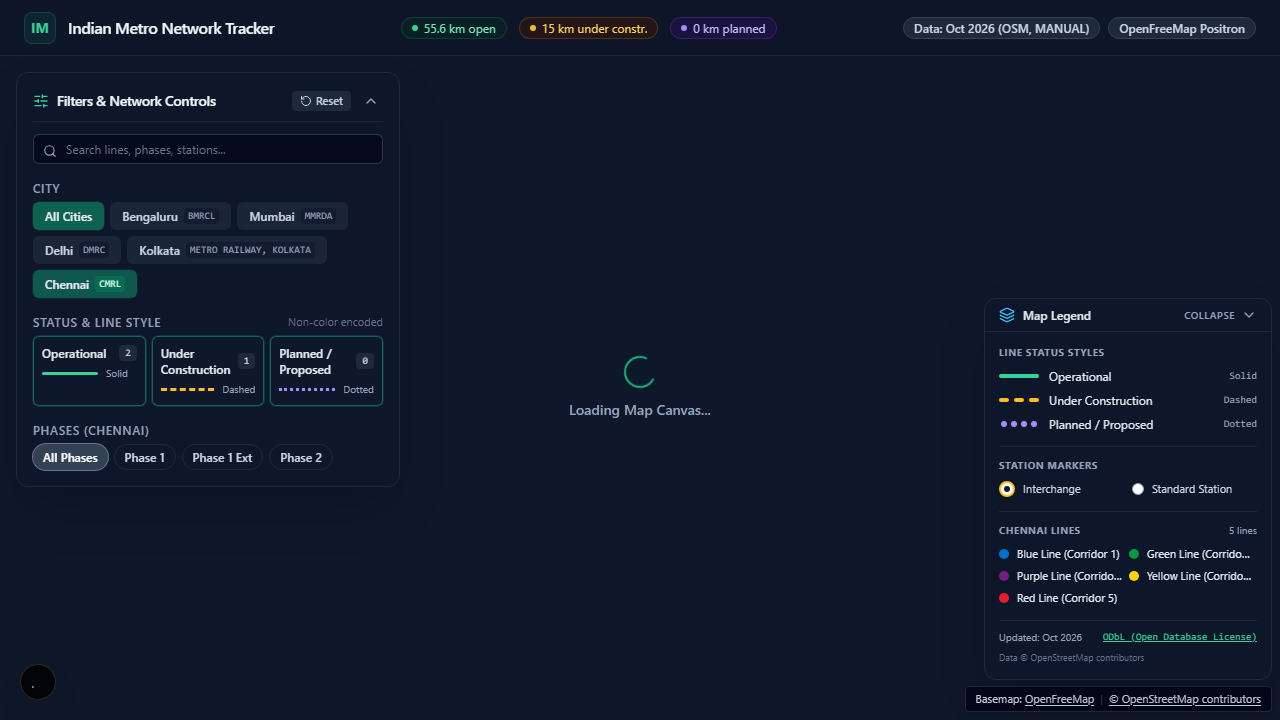
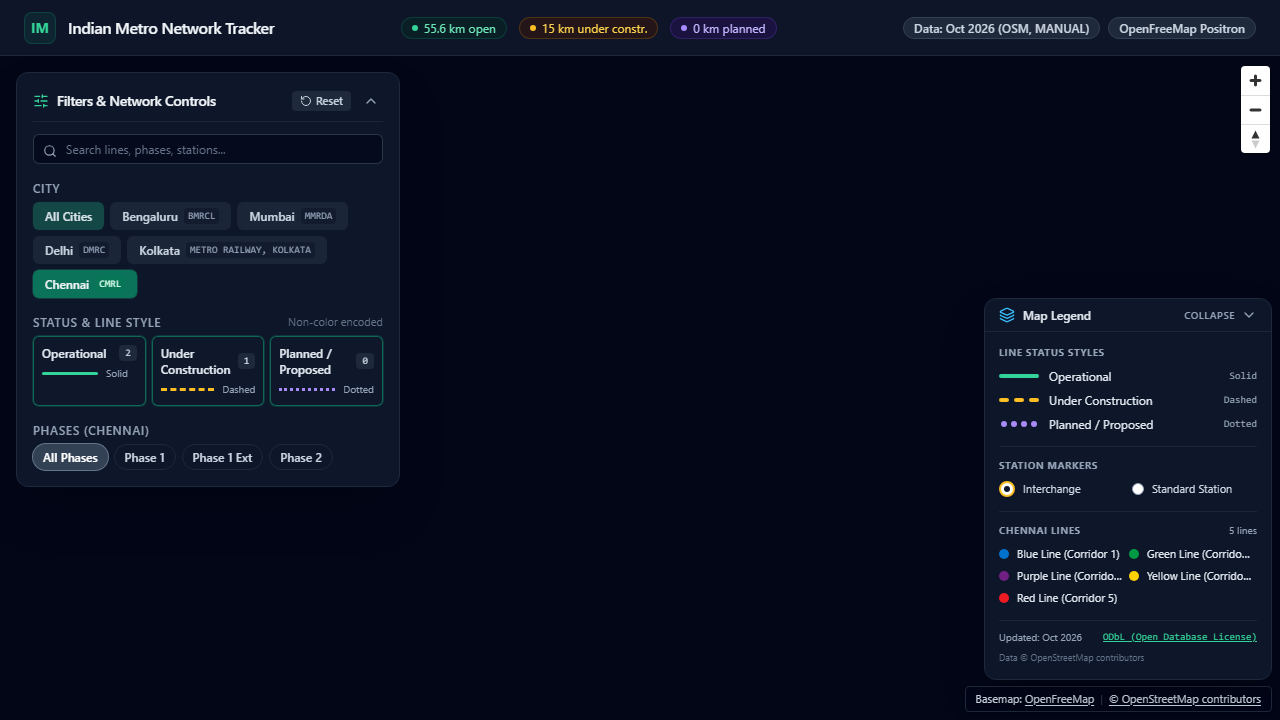
refactor(cleanup): remove unused exports on internal constants in lib/data-validator.ts

diff --git a/lib/data-validator.ts b/lib/data-validator.ts
@@ -8,14 +8,14 @@ import {
 import type { City, Line, MetroDataset } from "../types/metro";
 import { calculateLineStringLengthKm, checkLengthMismatch } from "./geo";
 
-export const INDIA_COORDINATE_ENVELOPE = {
+const INDIA_COORDINATE_ENVELOPE = {
   minLng: 68,
   maxLng: 98,
   minLat: 6,
   maxLat: 38,
 } as const;
 
-export const BBOX_MARGIN_DEG = 0.05;
+const BBOX_MARGIN_DEG = 0.05;
 
 export interface ValidationResult {
   valid: boolean;

diff --git a/reports/data-audit/2026-10-07.md b/reports/data-audit/2026-10-07.md
@@ -513,3 +513,5 @@
 - **Errors:** 86
 - **Warnings:** 151
 - **Info:** 8
+
+- **Baselined warnings:** 141
